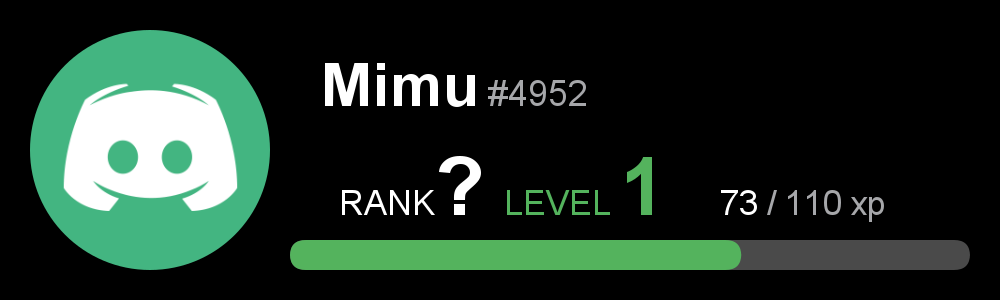
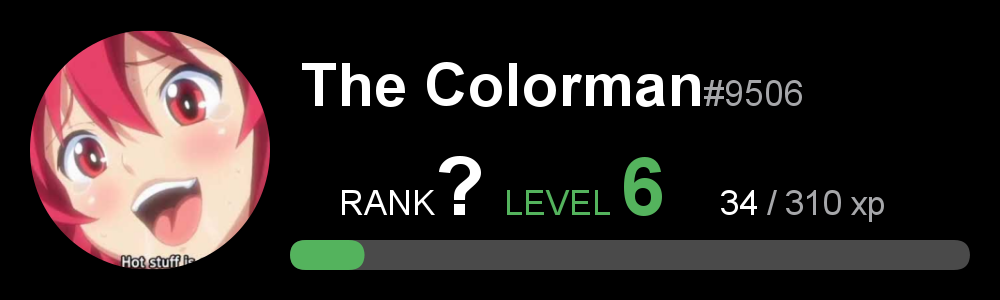
:bug: Fixed name position

diff --git a/commands/level.js b/commands/level.js
@@ -25,8 +25,9 @@ module.exports = {
         let xp_for_next_level = 5*(118*next_level+2*next_level*next_level*next_level)/6 - 5*(118*level+2*level*level*level)/6;
         let rank = "?";
         let current_xp_minus_xp_for_current_level = xp_total - 5*(118*level+2*level*level*level)/6;
-        
-        console.log(ds_user);
+
+        let sorted_database = user_db.chain().simplesort('level');
+        console.log(sorted_database);
 
         const canvas = createCanvas(1000, 300);
         const ctx = canvas.getContext('2d');
@@ -46,18 +47,15 @@ module.exports = {
         // username
         ctx.font = '36px' + font;
         ctx.fillStyle = "#A6A7AA";
-        let tag_text = ctx.measureText(ds_user.tag.slice(-5));
         ctx.font = 'bold 60px' + font;
         ctx.fillStyle = "white";
         let username_text_height = ctx.measureText(ds_user.username).emHeightAscent;
         let username_text_width = ctx.measureText(ds_user.username).width;
-        ctx.textAlign = "center";
-        ctx.fillText(ds_user.username, 400, 50 + username_text_height);
+        ctx.fillText(ds_user.username, 300, 50 + username_text_height);
         // tag
         ctx.font = '36px' + font;
         ctx.fillStyle = "#A6A7AA";
-        ctx.fillText(ds_user.tag.slice(-5), 380 + username_text_width, 50  + username_text_height);
-        ctx.textAlign = "start";
+        ctx.fillText(ds_user.tag.slice(-5), 300 + username_text_width, 50  + username_text_height);
         // experience bar
         ctx.fillStyle = "#4a4a4a";
         roundRect(ctx, 290, 240, canvas.width - 320, 30, 16, true, false);  // background
